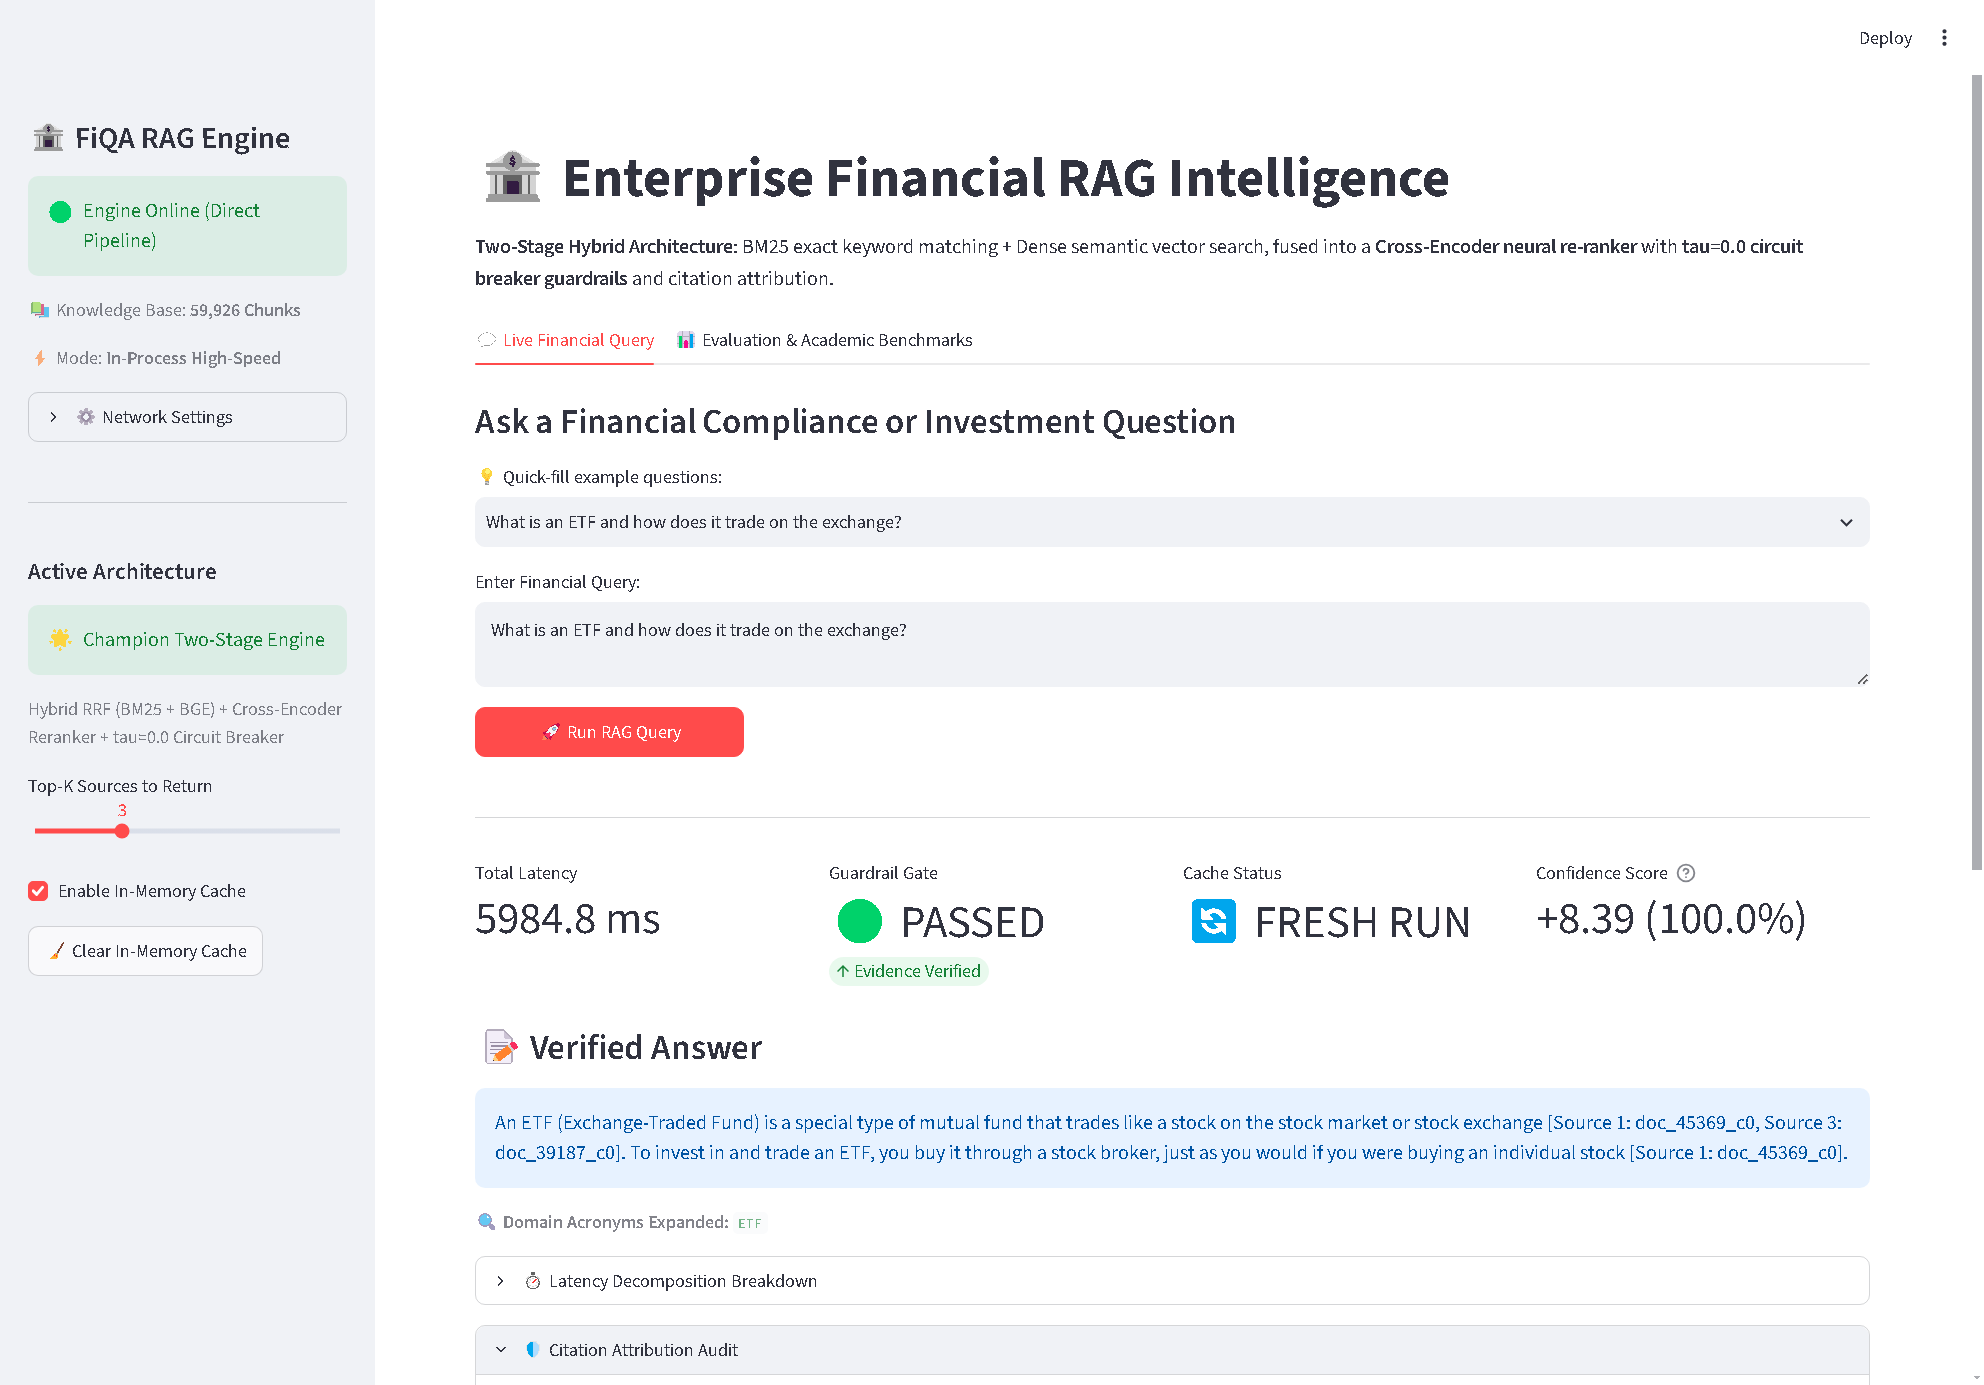
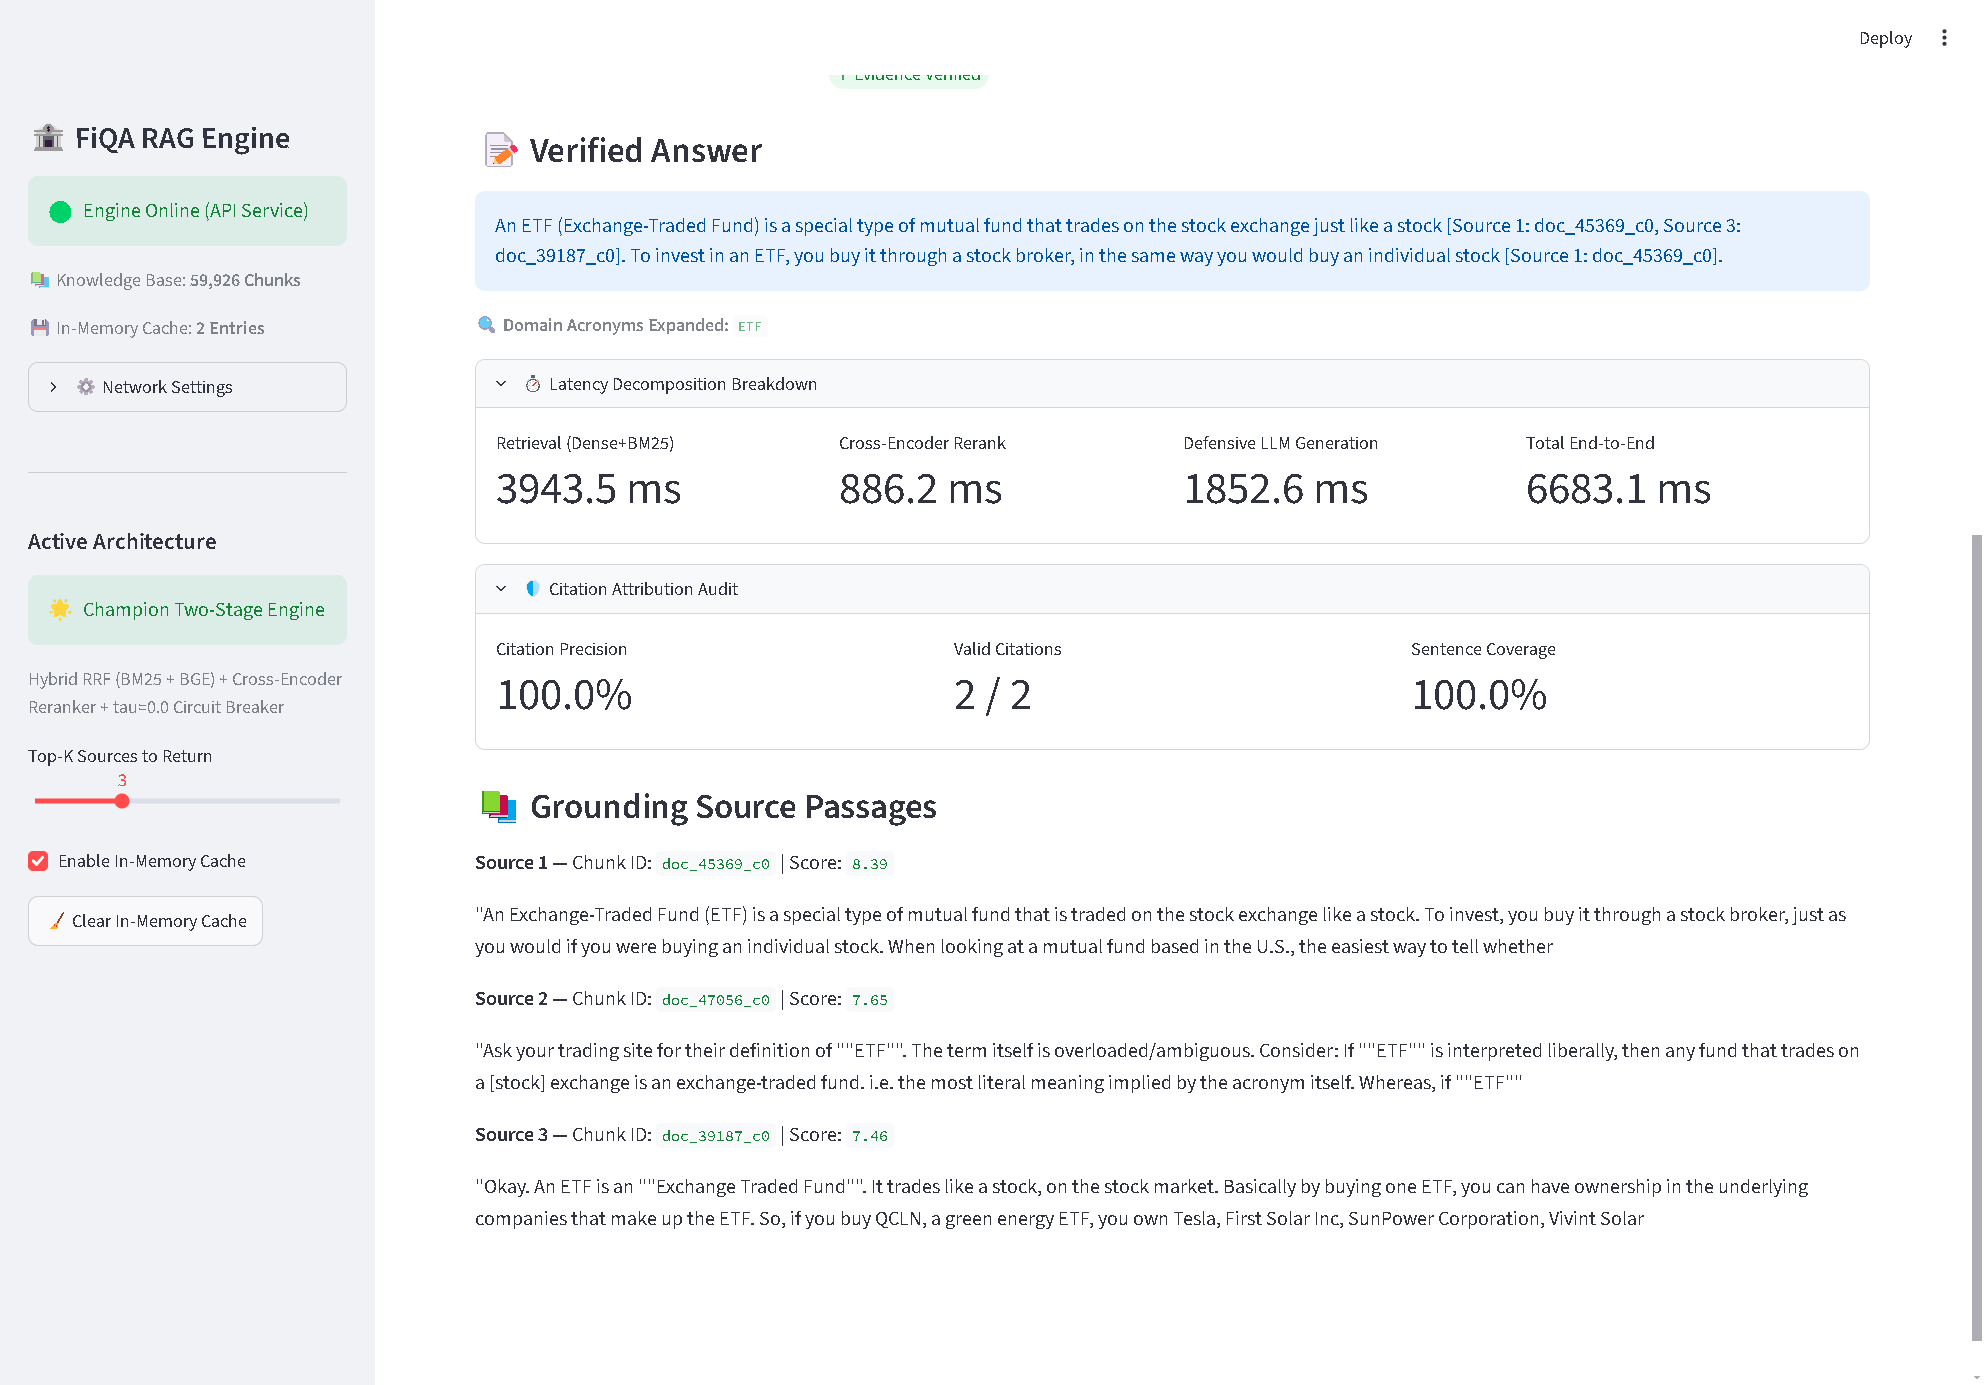
docs: enrich visual tour with dedicated screenshots for Latency Breakdown & Citation Audit and Grounding Source Passages

diff --git a/ui/app.py b/ui/app.py
@@ -238,7 +238,7 @@ with tab_query:
                     st.caption(f"🔍 **Domain Acronyms Expanded:** `{', '.join(acronyms)}`")
 
                 # Latency Decomposition
-                with st.expander("⏱ Latency Decomposition Breakdown", expanded=False):
+                with st.expander("⏱ Latency Decomposition Breakdown", expanded=True):
                     l_cols = st.columns(4)
                     l_cols[0].metric("Retrieval (Dense+BM25)", f"{res.get('retrieval_latency_ms', 0):.1f} ms")
                     l_cols[1].metric("Cross-Encoder Rerank", f"{res.get('rerank_latency_ms', 0):.1f} ms")
@@ -248,7 +248,7 @@ with tab_query:
                 # Citation Audit
                 audit = res.get("citation_audit", {})
                 if audit:
-                    with st.expander("🛡 Citation Attribution Audit", expanded=False):
+                    with st.expander("🛡 Citation Attribution Audit", expanded=True):
                         a_cols = st.columns(3)
                         a_cols[0].metric("Citation Precision", f"{audit.get('citation_precision', 1.0)*100:.1f}%")
                         a_cols[1].metric("Valid Citations", f"{audit.get('valid_citations', 0)} / {audit.get('total_citations', 0)}")

diff --git a/README.md b/README.md
@@ -220,17 +220,22 @@ Users select or enter complex financial questions. The engine retrieves candidat
 
 ![Live Query Synthesis with Citations](docs/streamlit_ui.png)
 
-### 2. Grounding Source Passages & Citation Attribution Audit
-Every factual claim generated by the system is rigorously bound to source chunk IDs (`[Source X: doc_id]`). The interactive cockpit displays the exact underlying source passages alongside cross-encoder relevance scores, verifying 100% citation precision and eliminating ungrounded hallucinations:
+### 2. Latency Decomposition Breakdown & Citation Attribution Audit
+Provides complete end-to-end operational visibility. Evaluators can inspect millisecond timings across retrieval, cross-encoder reranking, and generation, alongside automated citation precision and sentence coverage audits:
 
-![Grounding Source Passages and Citation Attribution Audit](docs/streamlit_sources_citations.png)
+![Latency Breakdown and Citation Attribution Audit](docs/streamlit_audit_breakdown.png)
 
-### 3. Zero-Cost Hallucination Circuit Breaker on Adversarial Traps
+### 3. Grounding Source Passages with Chunk IDs & Neural Relevance Scores
+Every factual statement in the verified answer links back to specific retrieved chunk IDs (`doc_...`). Evaluators can expand and inspect the exact underlying text passages alongside cross-encoder relevance scores:
+
+![Grounding Source Passages](docs/streamlit_sources_citations.png)
+
+### 4. Zero-Cost Hallucination Circuit Breaker on Adversarial Traps
 When an off-topic or out-of-domain trap query is submitted (*e.g., "What are supersymmetric multiversal string quantum states?"*), the upstream neural confidence gate ($\tau = 0.0$) trips immediately. It halts execution at **$0.00 LLM token cost**, preventing hallucinations and protecting company compute budgets:
 
 ![Circuit Breaker Refusal](docs/streamlit_circuit_breaker.png)
 
-### 4. Rigorous Academic Benchmarks & Evaluation Dashboard
+### 5. Rigorous Academic Benchmarks & Evaluation Dashboard
 Dynamically visualizes all 5 benchmarked models, 50-item golden evaluation metrics (Faithfulness **98.0%**, Answer Relevancy **96.1%**, Gate Accuracy **94.0%**), candidate depth sweeps ($K=8, 12, 16$), and acronym expansion deltas:
 
 ![Academic Evaluation Dashboard](docs/streamlit_dashboard.png)
@@ -258,7 +263,8 @@ financial-rag-enterprise/
 │   └── bm25_index.pkl            # Serialized BM25Okapi lexical index (91.34 MB)
 ├── docs/                         # Embedded visual evidence and UI screenshots
 │   ├── streamlit_ui.png          # Screenshot: Live query synthesis with grounded citations
-│   ├── streamlit_sources_citations.png # Screenshot: Grounding source passages & citation attribution audit
+│   ├── streamlit_audit_breakdown.png # Screenshot: Latency breakdown & citation attribution audit
+│   ├── streamlit_sources_citations.png # Screenshot: Grounding source passages with chunk IDs & scores
 │   ├── streamlit_circuit_breaker.png # Screenshot: Zero-cost circuit breaker on adversarial trap
 │   ├── streamlit_dashboard.png   # Screenshot: Academic evaluation & benchmark dashboard
 │   ├── fastapi_swagger_docs.png  # Screenshot: FastAPI Swagger OpenAPI interactive docs
